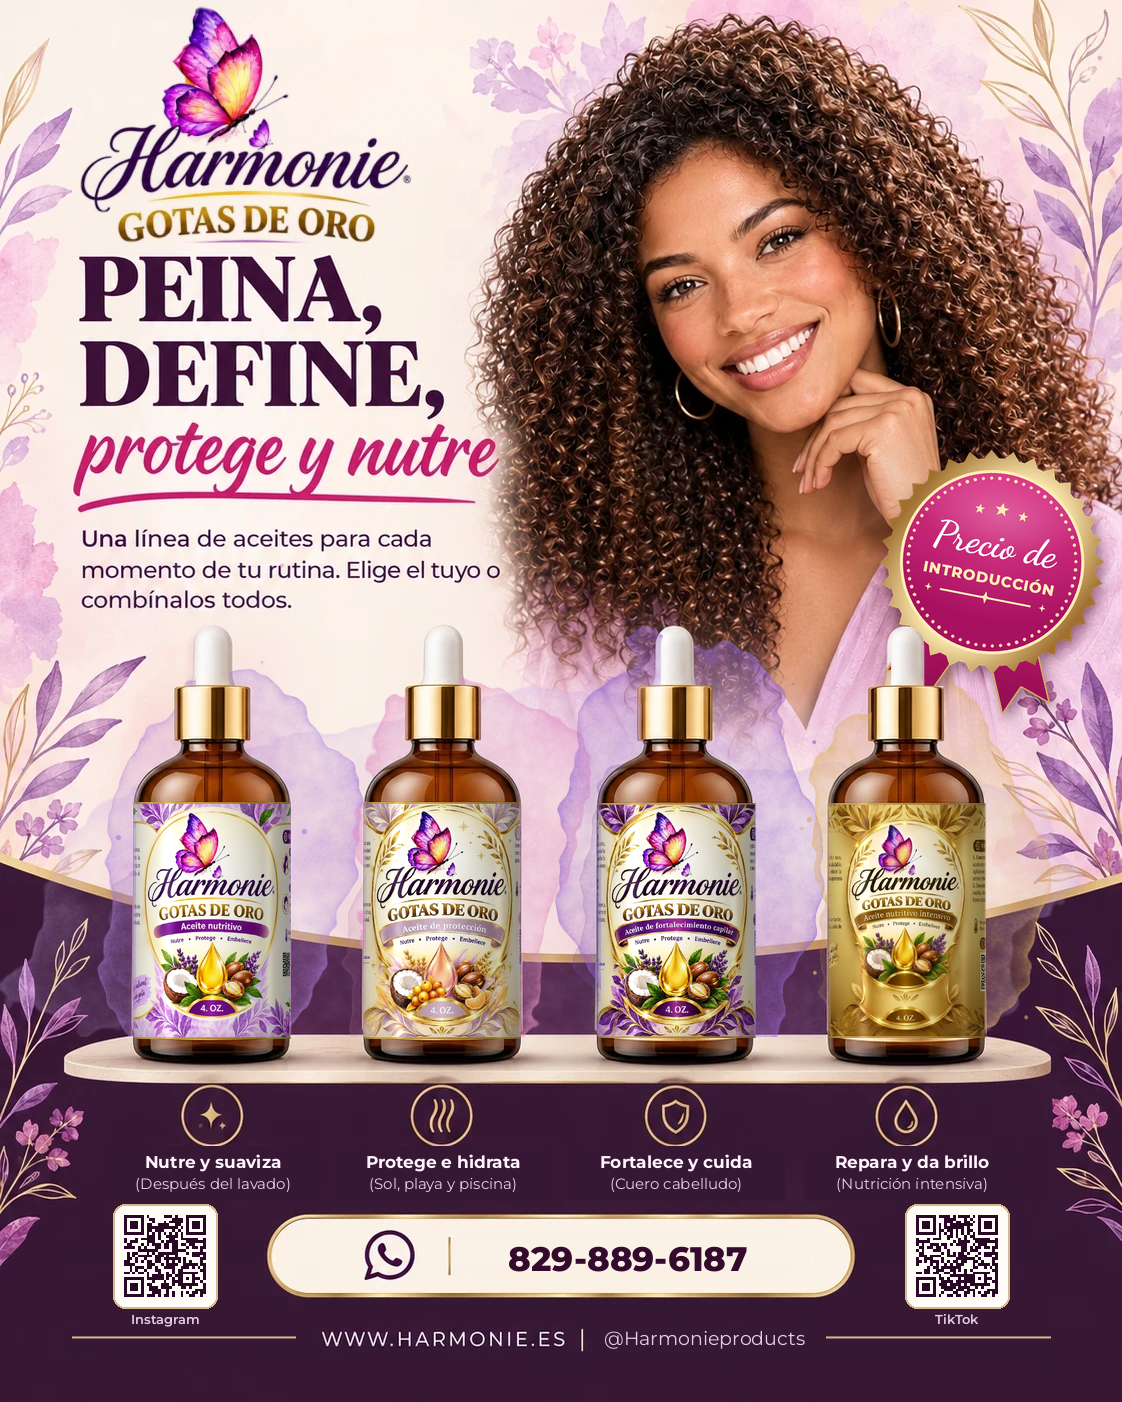
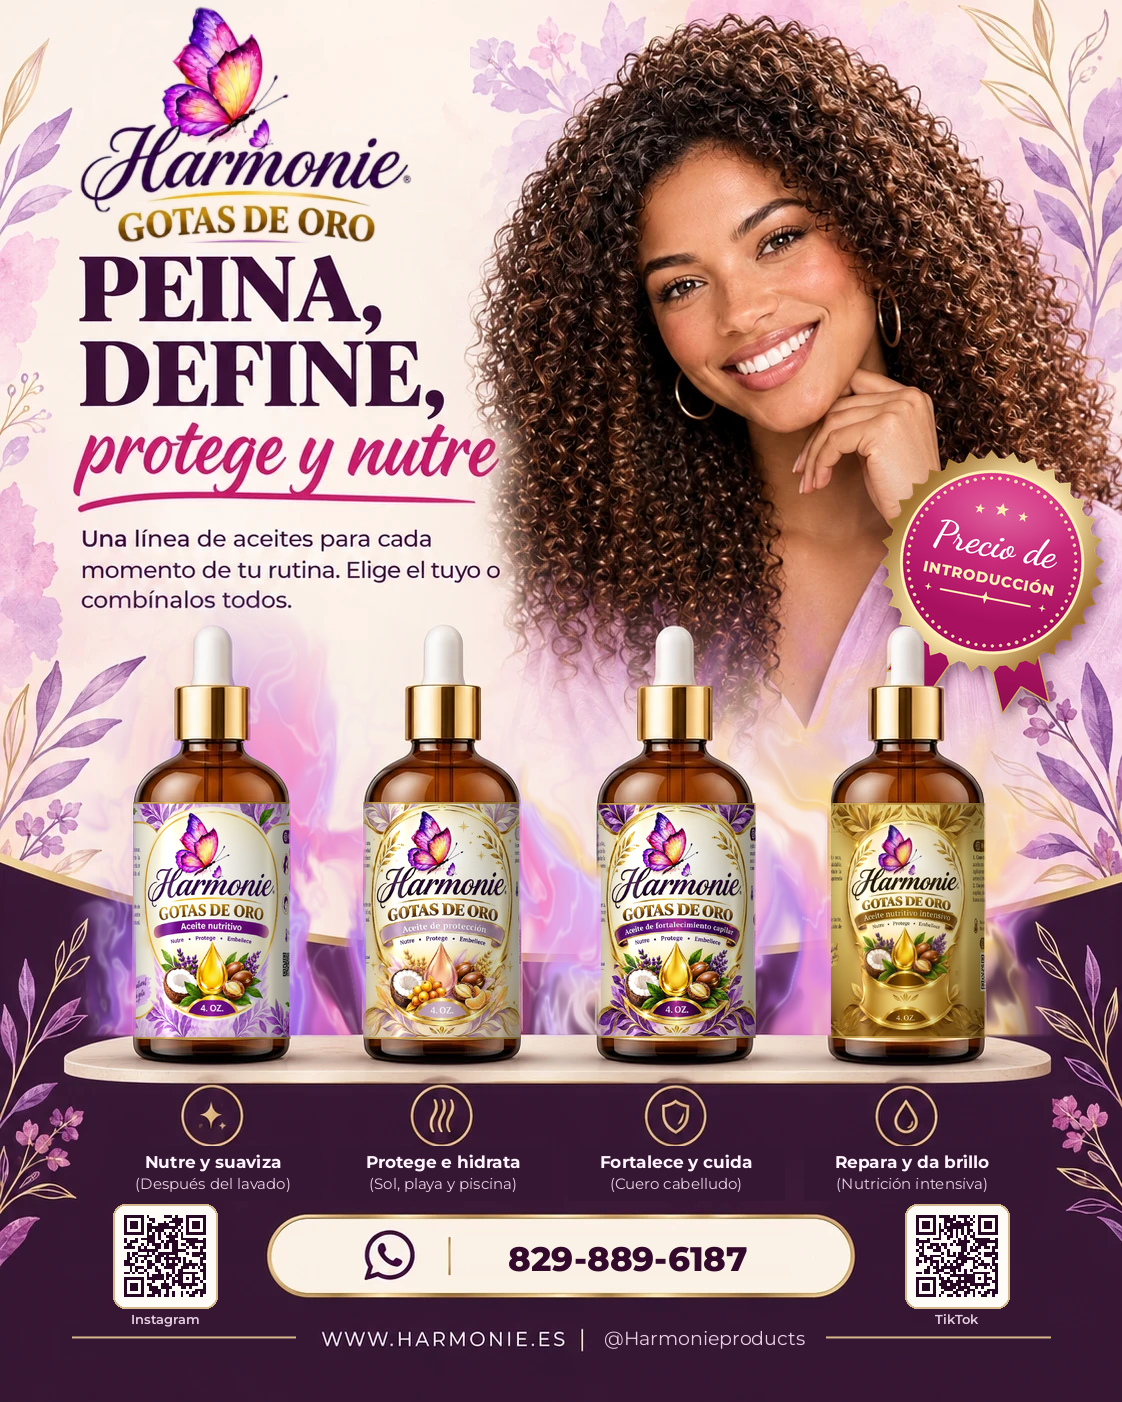
Flyer Harmonie: cortina de humo multicolor continua detrás de los potes
Claude-Session: https://claude.ai/code/session_01LAgBEXsmMrJHrQae13ZNSx

diff --git a/flyer/decor.py b/flyer/decor.py
@@ -1,4 +1,4 @@
-"""Second pass over the flyer: real logo, watercolor wash behind the bottles, and the
+"""Second pass over the flyer: real logo, multicolour smoke behind the bottles, and the
 'Precio de introducción' seal.  Runs build.py first, so the whole flyer is:
 
     python3 decor.py            # -> flyer-harmonie.png
@@ -156,53 +156,62 @@ glass = ((YY > 741) & (YY < 802)) | (YY > 1039)
 lum = bottles_ref.astype(np.float32) @ np.array([0.3, 0.59, 0.11], np.float32)
 bmask = np.where(ring & glass, bmask * np.clip((190 - lum) / 50, 0, 1), bmask)
 
-# ---------------------------------------------------------------- 3. watercolor wash behind the bottles
+# ---------------------------------------------------------------- 3. multicolour smoke curtain behind the bottles
 rng = np.random.default_rng(7)
 SHELF = 1037
 
 
-def noise(sigma, seed):
-    """Smooth value noise in roughly [-1, 1]."""
-    n = cv2.GaussianBlur(np.random.default_rng(seed).standard_normal((H, Wd)).astype(np.float32), (0, 0), sigma)
+def noise(sx, sy, seed):
+    """Smooth (optionally anisotropic) value noise in roughly [-1, 1]."""
+    n = np.random.default_rng(seed).standard_normal((H, Wd)).astype(np.float32)
+    n = cv2.GaussianBlur(n, (0, 0), sigmaX=sx, sigmaY=sy)
     return n / (n.std() * 2.5)
 
 
-def fbm(seed, sigmas=(60, 28, 12, 5), weights=(1, 0.5, 0.25, 0.12)):
-    return sum(w * noise(sg, seed + k) for k, (sg, w) in enumerate(zip(sigmas, weights)))
+def warp(field, dx, dy):
+    return cv2.remap(field, XX + dx, YY + dy, cv2.INTER_LINEAR, borderMode=cv2.BORDER_REFLECT)
 
 
-def wash(cx, cy, rx, ry, seed, warp=0.28, edge=0.045):
-    """Pigment density of one watercolor blot: ragged edge, darker rim, uneven fill."""
-    d = np.sqrt(((XX - cx) / rx) ** 2 + ((YY - cy) / ry) ** 2) + warp * fbm(seed)
-    inside = np.clip((1 - d) / 0.012, 0, 1)                       # crisp-but-soft paper edge
-    rim = np.exp(-np.clip(1 - d, 0, None) / edge) * 0.55             # pigment pooled at the edge
-    body = 0.32 + 0.16 * noise(18, seed + 9) + 0.10 * noise(4, seed + 11)
-    return inside * np.clip(body + rim, 0, 1)
+def fbm(seed, base=40, octaves=4, aspect=1.6):
+    return sum(0.5 ** k * noise(base / 2 ** k, base * aspect / 2 ** k, seed + k) for k in range(octaves))
 
 
-grain = 0.86 + 0.14 * noise(0.8, 99) + 0.06 * noise(2.5, 98)       # paper granulation
-grain *= (YY < SHELF)                                                 # paint stops at the shelf
-pigments = [(176, 132, 220), (226, 146, 196), (150, 104, 206), (222, 176, 104)]
-WC_Y = 870
-# one broad pale wash tying the row together, then a blot behind each bottle (offset like a shadow)
-broad = wash(572, 905, 520, 200, 1, warp=0.18, edge=0.06) * 0.55
-comp(flyer, np.full((H, Wd, 3), (198, 166, 228), np.float32), np.clip(broad * grain, 0, 1) * 0.75)
-for k, (cx, col) in enumerate(zip(CXS, pigments)):
-    dens = wash(cx + 16, WC_Y + rng.uniform(-15, 15), 118, 205, 20 + 7 * k)
-    comp(flyer, np.full((H, Wd, 3), col, np.float32), np.clip(dens * grain, 0, 1) * 0.85)
-    # second, smaller glaze that does not quite line up — gives the layered watercolor look
-    dens2 = wash(cx - 20, WC_Y + 60, 84, 150, 60 + 7 * k, warp=0.35, edge=0.035)
-    darker = tuple(int(v * 0.82) for v in col)
-    comp(flyer, np.full((H, Wd, 3), darker, np.float32), np.clip(dens2 * grain, 0, 1) * 0.45)
+def smoothstep(e0, e1, x):
+    x = np.clip((x - e0) / (e1 - e0), 0, 1)
+    return x * x * (3 - 2 * x)
 
-# a few splatter drops
-for _ in range(38):
-    k = rng.integers(0, 4)
-    x = CXS[k] + rng.normal(0, 95)
-    y = min(WC_Y + rng.normal(-40, 130), SHELF - 8)
-    r = rng.choice([1.2, 1.8, 2.5, 3.5], p=[0.4, 0.3, 0.2, 0.1])
-    a = mask((Wd, H), lambda d, s, x=x, y=y, r=r: d.ellipse([(x - r) * s, (y - r) * s, (x + r) * s, (y + r) * s], fill=255))
-    comp(flyer, np.full((H, Wd, 3), pigments[k], np.float32), a * rng.uniform(0.45, 0.8))
+
+# domain warping (twice) gives the curling, folding look of smoke rising from the shelf
+wx = 60 * fbm(1, 50, 3) ; wy = 80 * fbm(4, 50, 3)
+wx2 = wx + 25 * warp(fbm(7, 18, 3), wx, wy) ; wy2 = wy + 35 * warp(fbm(10, 18, 3), wx, wy)
+billow = warp(fbm(13, 34, 4), wx2, wy2)
+# wisps: thin bright ridges that follow the same flow
+ridge = (1 - np.abs(warp(fbm(17, 12, 3, 2.2), wx2, wy2))) ** 7
+ridge = cv2.GaussianBlur(ridge, (0, 0), 0.8)
+
+# envelope: thick at the shelf, rising in uneven plumes and breaking up at the top
+plume = 0.5 + 0.5 * noise(70, 2000, 21)            # varies across x only -> some plumes rise higher
+top = 640 - 120 * plume                             # where the smoke fades out
+rise = smoothstep(top, top + 260, YY)
+sides = smoothstep(55, 150, XX) * smoothstep(1067, 972, XX)
+env = rise * sides * np.clip((SHELF - YY) / 4, 0, 1)
+
+dens = smoothstep(-0.25, 0.55, billow + 0.45 * (rise - 0.5))
+density = np.clip(dens * 0.85 + ridge * 0.8 * (0.4 + 0.6 * dens), 0, 1) * env
+
+# colour swirls through the curtain (follows the warp, not just left-to-right)
+stops = np.array([(150, 92, 226), (236, 96, 176), (196, 150, 244), (248, 196, 104), (226, 120, 210), (128, 86, 214)], np.float32)
+t = np.clip(XX / Wd * 0.85 + 0.35 * warp(fbm(30, 60, 2), wx2 * 1.5, wy2 * 1.5) + 0.08, 0, 0.999) * (len(stops) - 1)
+i0 = t.astype(int)
+col = lerp(stops[i0], stops[np.minimum(i0 + 1, len(stops) - 1)], t - i0)
+col = col * (1 - 0.45 * ridge[..., None]) + 255 * 0.45 * ridge[..., None]      # bright wisps
+dark = 1 - (flyer.astype(np.float32) @ np.array([0.3, 0.59, 0.11], np.float32)) / 255
+a = np.clip(density * 0.9 + 0.3 * env * dark * smoothstep(-0.6, 0.4, billow), 0, 0.95)   # denser over the dark band
+comp(flyer, col, a)
+# soft halo of coloured light around the smoke
+glow = cv2.GaussianBlur(a, (0, 0), 14)
+base = flyer.astype(np.float32) / 255
+flyer[:] = np.clip(255 * (1 - (1 - base) * (1 - (col / 255) * glow[..., None] * 0.4)), 0, 255).astype(np.uint8)
 
 # contact shadows on the shelf
 shadow = np.zeros((H, Wd), np.float32)
